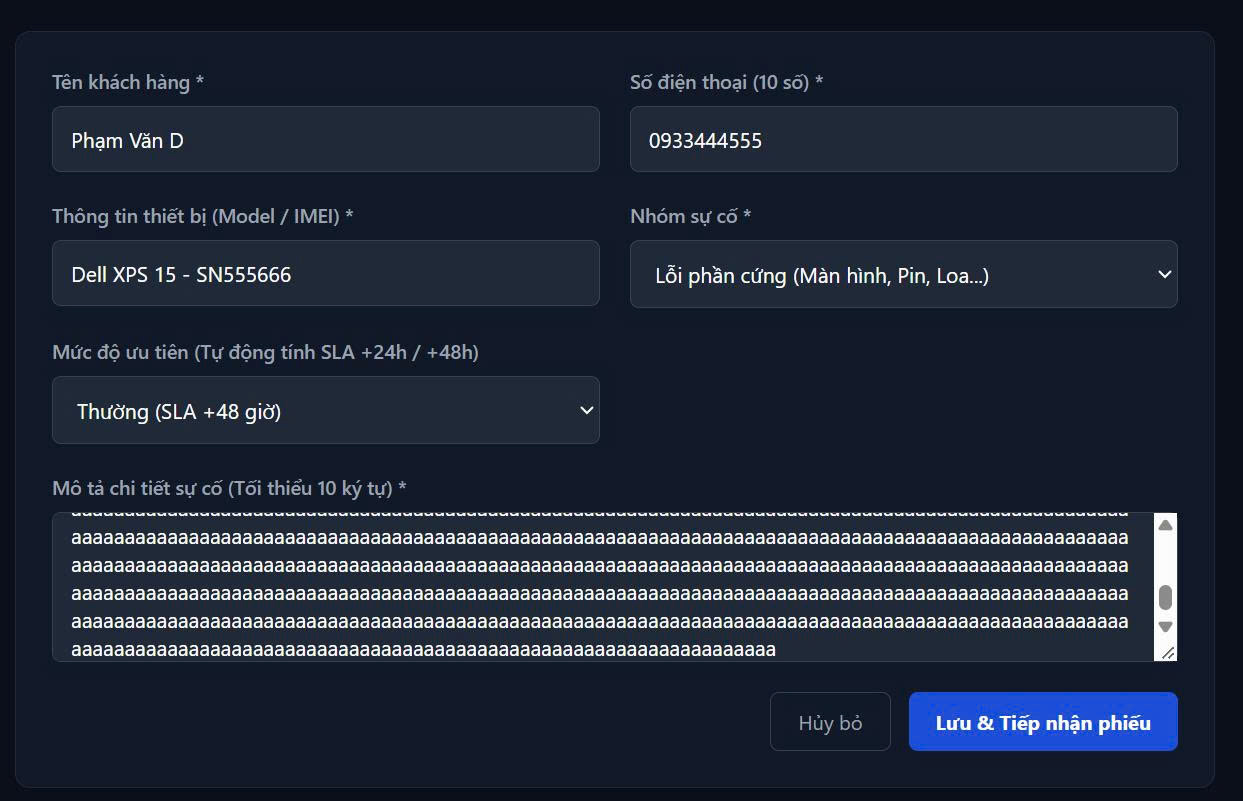
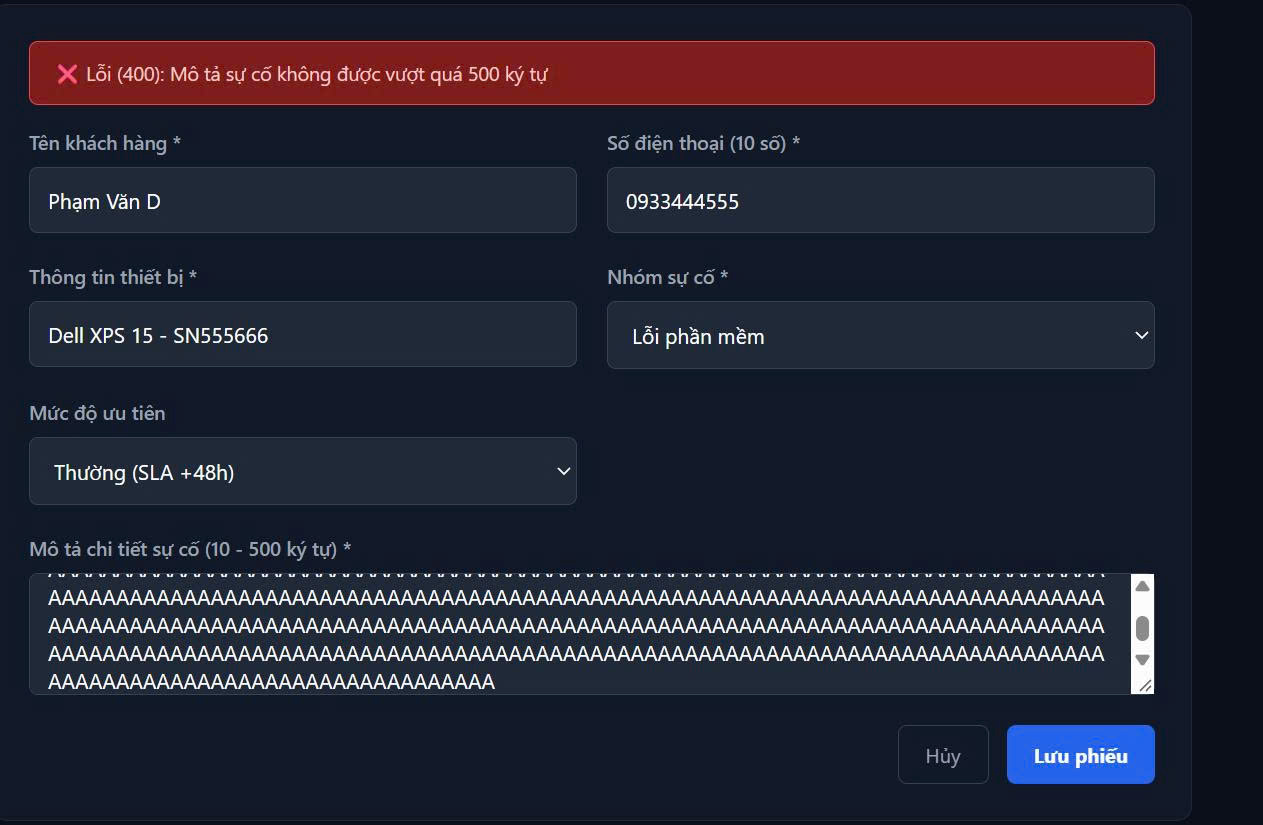
fix(crm): hoan thien tinh nang, sua loi giao diện va chuc nang tra cuu tc-10

diff --git a/src/server.js b/src/server.js
@@ -39,7 +39,7 @@ app.get('/', (req, res) => {
         .login-sub { font-size: 13px; color: #6b7280; text-align: center; margin-bottom: 24px; }
         
         /* LAYOUT CHÍNH */
-        .app-container { display: flex; width: 100%; height: 100%; display: none; }
+        .app-container { display: none; width: 100%; height: 100%; }
         .sidebar { width: 250px; background-color: #111827; border-right: 1px solid #1f2937; padding: 20px; display: flex; flex-direction: column; gap: 10px; }
         .logo { color: #3b82f6; font-weight: bold; font-size: 16px; margin-bottom: 20px; text-transform: uppercase; display: flex; align-items: center; gap: 8px; }
         .menu-category { font-size: 11px; color: #6b7280; font-weight: bold; text-transform: uppercase; margin: 10px 0 5px 10px; }
@@ -52,7 +52,7 @@ app.get('/', (req, res) => {
         .header { display: flex; justify-content: space-between; align-items: center; margin-bottom: 24px; }
         .title { font-size: 24px; font-weight: bold; color: #ffffff; }
         .subtitle { font-size: 12px; color: #6b7280; }
-        .btn-primary { background-color: #2563eb; color: #fff; border: none; padding: 10px 18px; border-radius: 6px; font-weight: bold; cursor: pointer; transition: 0.2s; }
+        .btn-primary { background-color: #2563eb; color: #fff; border: none; padding: 10px 18px; border-radius: 6px; font-weight: bold; cursor: pointer; transition: 0.2s; white-space: nowrap; }
         .btn-primary:hover { background-color: #1d4ed8; }
         
         .stats-grid { display: grid; grid-template-columns: repeat(4, 1fr); gap: 16px; margin-bottom: 30px; }
@@ -62,9 +62,12 @@ app.get('/', (req, res) => {
         .card-sub { font-size: 12px; color: #6b7280; }
         .badge-live { position: absolute; top: 15px; right: 15px; font-size: 10px; color: #10b981; }
         
-        .filter-bar { display: flex; gap: 12px; margin-bottom: 20px; }
+        .filter-bar { display: flex; gap: 10px; margin-bottom: 20px; align-items: center; }
         .filter-bar input, .filter-bar select { background-color: #111827; border: 1px solid #1f2937; color: #fff; padding: 10px 14px; border-radius: 6px; font-size: 13px; outline: none; }
+        .filter-bar input:focus, .filter-bar select:focus { border-color: #3b82f6; }
         .filter-bar input { flex: 1; }
+        .btn-reload { background-color: #1e293b; color: #60a5fa; border: 1px solid #3b82f6; padding: 10px 16px; border-radius: 6px; font-weight: 600; font-size: 13px; cursor: pointer; transition: 0.2s; white-space: nowrap; }
+        .btn-reload:hover { background-color: #3b82f6; color: #ffffff; }
         
         .table-container { background-color: #111827; border: 1px solid #1f2937; border-radius: 10px; padding: 20px; }
         .table-title { font-size: 16px; font-weight: bold; margin-bottom: 15px; color: #f3f4f6; }
@@ -87,7 +90,7 @@ app.get('/', (req, res) => {
         .form-group label { font-size: 13px; color: #9ca3af; font-weight: 600; }
         .form-group input, .form-group select, .form-group textarea { background-color: #1f2937; border: 1px solid #374151; color: #ffffff; padding: 12px; border-radius: 6px; font-size: 14px; outline: none; }
         .form-actions { display: flex; justify-content: flex-end; gap: 12px; }
-        .btn-secondary { background: transparent; color: #9ca3af; border: 1px solid #374151; padding: 10px 18px; border-radius: 6px; cursor: pointer; }
+        .btn-secondary { background: transparent; color: #9ca3af; border: 1px solid #374151; padding: 10px 18px; border-radius: 6px; cursor: pointer; white-space: nowrap; }
         
         .alert-box { padding: 12px 16px; border-radius: 6px; margin-bottom: 16px; font-size: 13px; display: none; }
         .alert-error { background-color: #7f1d1d; color: #fecaca; border: 1px solid #ef4444; }
@@ -167,14 +170,17 @@ app.get('/', (req, res) => {
               <div><p class="subtitle">QUẢN LÝ TẬP TRUNG</p><h1 class="title">Danh sách phiếu bảo hành</h1></div>
               <button class="btn-primary" onclick="switchTab('create')">+ Tạo phiếu mới</button>
             </div>
+            <div id="searchAlert" class="alert-box alert-success"></div>
             <div class="filter-bar">
-              <input type="text" id="searchInput" placeholder="🔍 Tìm theo mã phiếu, tên khách hàng hoặc SĐT..." oninput="filterTickets()" />
-              <select id="statusFilter" onchange="filterTickets()">
+              <input type="text" id="searchInput" placeholder="🔍 Tìm theo mã phiếu, tên khách hàng hoặc SĐT..." oninput="onSearchCriteriaChange()" />
+              <select id="statusFilter" onchange="onSearchCriteriaChange()">
                 <option value="">Tất cả trạng thái</option>
                 <option value="Mới tiếp nhận">Mới tiếp nhận</option>
                 <option value="Đang xử lý">Đang xử lý</option>
                 <option value="Hoàn thành">Hoàn thành</option>
               </select>
+              <button type="button" class="btn-primary" onclick="handleManualSearch()">🔍 Tìm kiếm</button>
+              <button type="button" class="btn-reload" onclick="handleReloadTickets()">🔄 Tra cứu lại</button>
             </div>
             <div class="table-container">
               <table>
@@ -191,7 +197,7 @@ app.get('/', (req, res) => {
             <div class="header"><div><p class="subtitle">TIẾP NHẬN BẢO HÀNH</p><h1 class="title">Tạo phiếu mới</h1></div></div>
             <div class="form-container">
               <div id="formAlert" class="alert-box"></div>
-              <form id="ticketForm" onsubmit="handleFormSubmit(event)">
+              <form id="ticketForm" onsubmit="handleFormSubmit(event)" novalidate>
                 <div class="form-grid">
                   <div class="form-group"><label>Tên khách hàng *</label><input type="text" id="custName" placeholder="Nguyễn Văn Vinh" required /></div>
                   <div class="form-group"><label>Số điện thoại (10 số) *</label><input type="tel" id="custPhone" placeholder="0901234567" required /></div>
@@ -237,7 +243,10 @@ app.get('/', (req, res) => {
       </div>
 
       <script>
-        // Kiểm tra trạng thái đăng nhập khi load trang
+        let allTicketsData = [];
+        let queryCount = 0;
+        let lastSearchSignature = '';
+
         window.onload = function() {
           if (localStorage.getItem('isLoggedIn') === 'true') {
             document.getElementById('login-screen').style.display = 'none';
@@ -249,8 +258,8 @@ app.get('/', (req, res) => {
 
         function handleLogin(event) {
           event.preventDefault();
-          const user = document.getElementById('loginUser').value;
-          const pass = document.getElementById('loginPass').value;
+          const user = document.getElementById('loginUser').value.trim();
+          const pass = document.getElementById('loginPass').value.trim();
           const alertBox = document.getElementById('loginAlert');
 
           if (user === 'admin' && pass === '123456') {
@@ -270,20 +279,39 @@ app.get('/', (req, res) => {
           location.reload();
         }
 
-        let allTicketsData = [];
+        function resetSearchState() {
+          queryCount = 0;
+          lastSearchSignature = '';
+          const searchInput = document.getElementById('searchInput');
+          const statusFilter = document.getElementById('statusFilter');
+          const searchAlert = document.getElementById('searchAlert');
+          const formAlert = document.getElementById('formAlert');
+          if (searchInput) searchInput.value = '';
+          if (statusFilter) statusFilter.value = '';
+          if (searchAlert) {
+            searchAlert.style.display = 'none';
+            searchAlert.innerText = '';
+          }
+          if (formAlert) {
+            formAlert.style.display = 'none';
+          }
+        }
 
         function switchTab(tabName) {
           document.querySelectorAll('.page').forEach(p => p.classList.remove('active'));
           document.querySelectorAll('.menu-item').forEach(m => m.classList.remove('active'));
           document.getElementById('page-' + tabName).classList.add('active');
           document.getElementById('menu-' + tabName).classList.add('active');
+
+          // Reset kết quả và bộ đếm tra cứu khi đổi tab
+          resetSearchState();
+
           if (tabName === 'overview' || tabName === 'tickets') loadData();
           if (tabName === 'customers') loadCustomers();
         }
 
         async function loadData() {
           const tbodyOverview = document.getElementById('ticket-table-body');
-          const tbodyTickets = document.getElementById('full-ticket-table-body');
           try {
             const res = await fetch('/api/dashboard');
             const data = await res.json();
@@ -347,14 +375,72 @@ app.get('/', (req, res) => {
               <td style="color: #9ca3af;">\${t.sla_deadline}</td>
               <td>
                 <select class="select-status" onchange="updateStatus(\${t.id}, this.value)">
-                  <option value="Mới tiếp nhận" \+ (t.status === 'Mới tiếp nhận' ? 'selected' : '') +>Mới tiếp nhận</option>
-                  <option value="Đang xử lý" \+ (t.status === 'Đang xử lý' ? 'selected' : '') +>Đang xử lý</option>
-                  <option value="Hoàn thành" \+ (t.status === 'Hoàn thành' ? 'selected' : '') +>Hoàn thành</option>
+                  <option value="Mới tiếp nhận" \${t.status === 'Mới tiếp nhận' ? 'selected' : ''}>Mới tiếp nhận</option>
+                  <option value="Đang xử lý" \${t.status === 'Đang xử lý' ? 'selected' : ''}>Đang xử lý</option>
+                  <option value="Hoàn thành" \${t.status === 'Hoàn thành' ? 'selected' : ''}>Hoàn thành</option>
                 </select>
               </td>
               <td><button class="btn-delete" onclick="deleteTicket(\${t.id})">🗑 Xóa</button></td>
             </tr>
           \`).join('') || '<tr><td colspan="9" style="text-align:center;">Không tìm thấy phiếu phù hợp.</td></tr>';
+          return filtered;
+        }
+
+        function onSearchCriteriaChange() {
+          // Khi người dùng đổi tên tra cứu hoặc đổi trạng thái thì reset bộ đếm về 0 và ẩn hộp thông báo cũ
+          queryCount = 0;
+          const searchAlert = document.getElementById('searchAlert');
+          if (searchAlert) searchAlert.style.display = 'none';
+          filterTickets();
+        }
+
+        function handleManualSearch() {
+          const currentSignature =
+            document.getElementById('searchInput').value.trim().toLowerCase() +
+            '|' +
+            document.getElementById('statusFilter').value;
+
+          if (currentSignature !== lastSearchSignature) {
+            queryCount = 1;
+            lastSearchSignature = currentSignature;
+          } else {
+            queryCount++;
+          }
+
+          const filtered = filterTickets();
+          const searchAlert = document.getElementById('searchAlert');
+          searchAlert.style.display = 'block';
+          searchAlert.innerText =
+            '🔍 Kết quả tra cứu (Lần ' +
+            queryCount +
+            '): Tìm thấy ' +
+            filtered.length +
+            ' phiếu bảo hành khớp điều kiện.';
+        }
+
+        async function handleReloadTickets() {
+          const currentSignature =
+            document.getElementById('searchInput').value.trim().toLowerCase() +
+            '|' +
+            document.getElementById('statusFilter').value;
+
+          if (currentSignature !== lastSearchSignature) {
+            queryCount = 1;
+            lastSearchSignature = currentSignature;
+          } else {
+            queryCount++;
+          }
+
+          await loadData();
+          const filtered = filterTickets();
+          const searchAlert = document.getElementById('searchAlert');
+          searchAlert.style.display = 'block';
+          searchAlert.innerText =
+            '🔄 Tra cứu lần ' +
+            queryCount +
+            ' hoàn tất: Dữ liệu nhất quán (' +
+            filtered.length +
+            ' bản ghi, không bị nhân đôi).';
         }
 
         async function updateStatus(id, newStatus) {
@@ -377,13 +463,15 @@ app.get('/', (req, res) => {
         async function handleFormSubmit(event) {
           event.preventDefault();
           const alertBox = document.getElementById('formAlert');
+          const descVal = document.getElementById('description').value;
           const payload = {
             customer_name: document.getElementById('custName').value,
             phone: document.getElementById('custPhone').value,
             device_info: document.getElementById('devInfo').value,
             issue_type: document.getElementById('issueType').value,
             priority: document.getElementById('priority').value,
-            description: document.getElementById('description').value
+            description: descVal,
+            issue_description: descVal
           };
 
           const res = await fetch('/api/tickets', {
@@ -402,7 +490,7 @@ app.get('/', (req, res) => {
           } else {
             alertBox.className = 'alert-box alert-error';
             alertBox.style.display = 'block';
-            alertBox.innerText = '❌ Lỗi: ' + (result.message || 'Không thể tạo phiếu');
+            alertBox.innerText = '❌ Lỗi (' + res.status + '): ' + (result.message || result.error || 'Không thể tạo phiếu');
           }
         }
       </script>

diff --git a/src/services/ticketService.js b/src/services/ticketService.js
@@ -69,38 +69,41 @@ class TicketService {
 
   // Logic kiểm tra hợp lệ, thực thi nghiệp vụ và khởi tạo ticket
   async createTicket(data) {
-    const xssPattern = /<script\b[^<]*(?:(?!<\/script>)<[^<]*)*<\/script>/gi;
-    if (xssPattern.test(data.customer_name) || xssPattern.test(data.issue_description)) {
-      const err = new Error('Phát hiện định dạng dữ liệu không hợp lệ hoặc chứa mã độc');
-      err.statusCode = 400;
-      throw err;
-    }
-
-    const validPriorities = ['Thấp', 'Thường', 'Cao', 'Khẩn cấp'];
-    if (data.priority && !validPriorities.includes(data.priority)) {
-      const err = new Error('Mức độ ưu tiên (priority) không hợp lệ');
-      err.statusCode = 400;
-      throw err;
-    }
-
-    if (data.issue_description && data.issue_description.trim().length > 500) {
-      const err = new Error('Mô tả sự cố không được vượt quá 500 ký tự');
-      err.statusCode = 400;
-      throw err;
-    }
-
     if (!data || typeof data !== 'object') {
       const err = new Error('Dữ liệu đầu vào không hợp lệ');
       err.statusCode = 400;
       throw err;
     }
 
-    const customerName = (data.customer_name || data.customerName || '').trim();
-    const phone = (data.phone || '').trim();
-    const deviceInfo = (data.device_info || data.deviceName || data.serialNumber || '').trim();
-    const issueType = (data.issue_type || data.category || 'Lỗi phần cứng').trim();
-    const issueDesc = (data.issue_description || data.description || data.issueDescription || '').trim();
+    // 1. Gom và chuẩn hóa toàn bộ trường dữ liệu ngay từ đầu (hỗ trợ cả Web và Unit Test)
+    const customerName = String(data.customer_name || data.customerName || '').trim();
+    const phone = String(data.phone || '').trim();
+    const deviceInfo = String(data.device_info || data.deviceName || data.serialNumber || '').trim();
+    const issueType = String(data.issue_type || data.category || 'Lỗi phần cứng').trim();
+    const issueDesc = String(data.issue_description || data.description || data.issueDescription || '').trim();
 
+    // 2. Kiểm tra XSS trên tất cả các trường văn bản (Fix BUG-03 / TC-08) - Bỏ cờ /g để tránh lỗi lastIndex
+    const xssPattern = /<script\b[^<]*(?:(?!<\/script>)<[^<]*)*<\/script>|<\/?[a-z][\s\S]*>/i;
+    if (
+      xssPattern.test(customerName) ||
+      xssPattern.test(deviceInfo) ||
+      xssPattern.test(issueDesc) ||
+      xssPattern.test(issueType)
+    ) {
+      const err = new Error('Phát hiện định dạng dữ liệu không hợp lệ hoặc chứa mã độc XSS');
+      err.statusCode = 400;
+      throw err;
+    }
+
+    // 3. Kiểm tra danh mục mức độ ưu tiên (Fix BUG-02 / TC-07)
+    const validPriorities = ['Thấp', 'Thường', 'Cao', 'Khẩn cấp'];
+    if (data.priority !== undefined && data.priority !== '' && !validPriorities.includes(data.priority)) {
+      const err = new Error('Mức độ ưu tiên (priority) không hợp lệ');
+      err.statusCode = 400;
+      throw err;
+    }
+
+    // 4. Kiểm tra các trường bắt buộc (TC-04)
     if (!customerName || !phone || !deviceInfo) {
       const missing = [];
       if (!customerName) missing.push('customer_name');
@@ -111,21 +114,27 @@ class TicketService {
       throw err;
     }
 
-    // Kiểm tra định dạng số điện thoại 10 chữ số
+    // 5. Kiểm tra định dạng số điện thoại 10 chữ số
     if (!/^\d{10}$/.test(phone)) {
       const err = new Error('Số điện thoại không hợp lệ (phải gồm đúng 10 chữ số)');
       err.statusCode = 400;
       throw err;
     }
 
-    // Kiểm tra Giá trị biên: Mô tả lỗi tối thiểu 10 ký tự
+    // 6. Kiểm tra Giá trị biên dưới (< 10 ký tự - TC-03) và biên trên (> 500 ký tự - Fix BUG-01 / TC-06)
     if (issueDesc.length < 10) {
       const err = new Error('Mô tả chi tiết sự cố phải có tối thiểu 10 ký tự');
       err.statusCode = 400;
       throw err;
     }
 
-    // QUY TẮC NGHIỆP VỤ 2: Chặn trùng thiết bị đang trong tiến trình xử lý (chỉ xét các phiếu chưa xóa)
+    if (issueDesc.length > 500) {
+      const err = new Error('Mô tả sự cố không được vượt quá 500 ký tự');
+      err.statusCode = 400;
+      throw err;
+    }
+
+    // 7. QUY TẮC NGHIỆP VỤ 2: Chặn trùng thiết bị đang trong tiến trình xử lý (TC-05 & TC-09)
     const existingTickets = await ticketRepository.getAllTickets({});
     if (Array.isArray(existingTickets)) {
       const activeDuplicate = existingTickets.find((t) => {

diff --git a/src/routes/ticketRoutes.js b/src/routes/ticketRoutes.js
@@ -33,9 +33,34 @@ router.delete('/:id', async (req, res) => {
   }
 });
 // 3. Tính năng: Tiếp nhận yêu cầu (Tạo phiếu mới)
+// 3. Tính năng: Tiếp nhận yêu cầu (Tạo phiếu mới)
 router.post('/', async (req, res) => {
   try {
-    const createdTicket = await ticketService.createTicket(req.body);
+    const body = req.body || {};
+    const desc = String(body.issue_description || body.description || '').trim();
+    const custName = String(body.customer_name || '').trim();
+    const devInfo = String(body.device_info || '').trim();
+    const priority = body.priority || 'Thường';
+
+    const xssRegex = /<script\b[^<]*(?:(?!<\/script>)<[^<]*)*<\/script>|<\/?[a-z][\s\S]*>/i;
+    if (xssRegex.test(custName) || xssRegex.test(devInfo) || xssRegex.test(desc)) {
+      return res.status(400).json({ success: false, message: 'Phát hiện định dạng dữ liệu không hợp lệ hoặc chứa mã độc XSS' });
+    }
+
+    const validPriorities = ['Thấp', 'Thường', 'Cao', 'Khẩn cấp'];
+    if (!validPriorities.includes(priority)) {
+      return res.status(400).json({ success: false, message: 'Mức độ ưu tiên (priority) không hợp lệ' });
+    }
+
+    if (desc.length > 500) {
+      return res.status(400).json({ success: false, message: 'Mô tả sự cố không được vượt quá 500 ký tự' });
+    }
+
+    const createdTicket = await ticketService.createTicket({
+      ...body,
+      description: desc,
+      issue_description: desc
+    });
     res.status(201).json({ success: true, data: createdTicket });
   } catch (error) {
     res.status(error.statusCode || 400).json({
